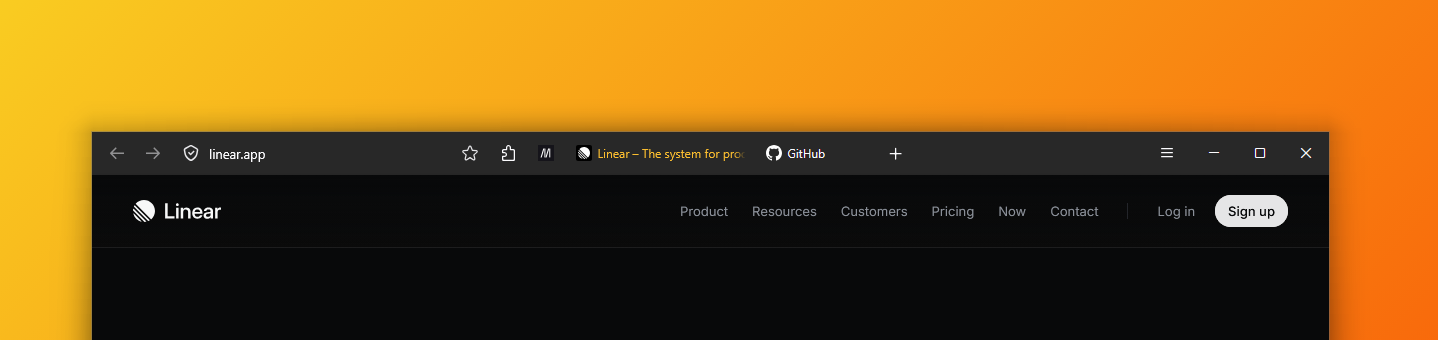
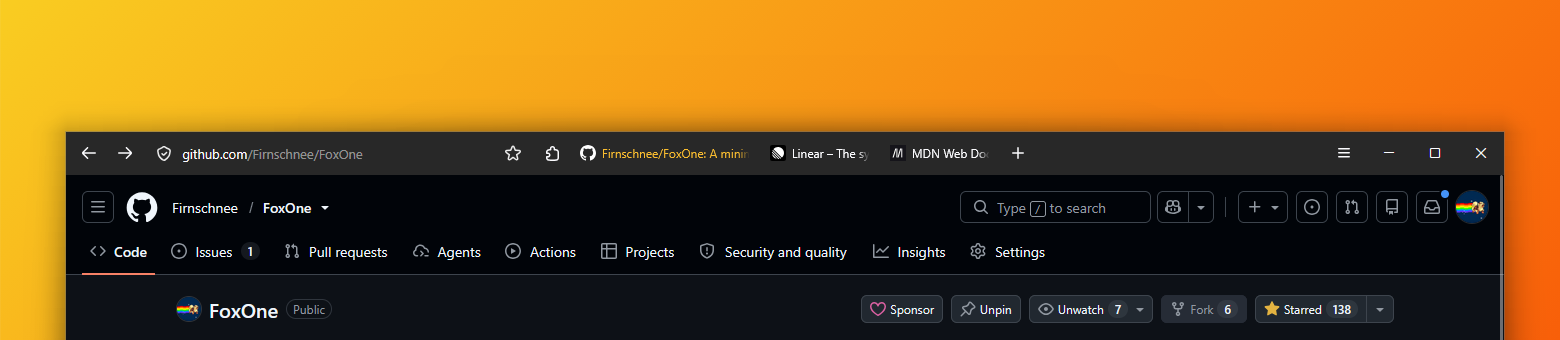
Refresh the preview screenshot, drop the unused ones
The new preview_cropped.png is 1560x340 instead of 1438x340, so the
intrinsic size on the landing page image moves with it. Preview.png,
preview_cropped2.png and preview_cropped3.png were referenced nowhere.

diff --git a/docs/index.html b/docs/index.html
@@ -31,7 +31,7 @@
 </section>
 
 <div class="preview">
-  <img src="assets/preview_cropped.png" width="1438" height="340" alt="FoxOne preview: Firefox with a single combined toolbar and tab line">
+  <img src="assets/preview_cropped.png" width="1560" height="340" alt="FoxOne preview: Firefox with a single combined toolbar and tab line">
 </div>
 
 <section class="feature">
